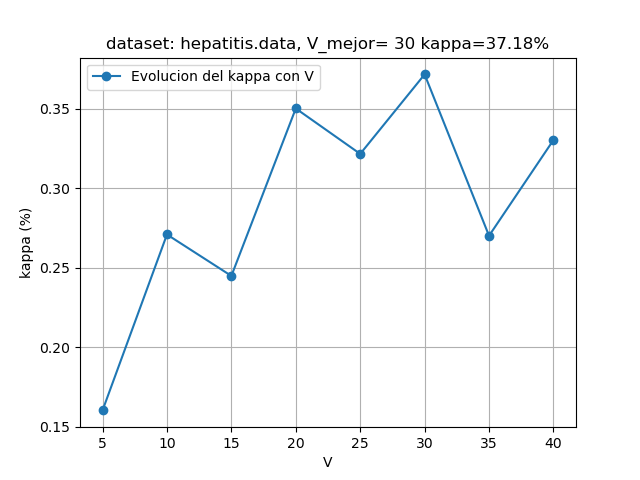
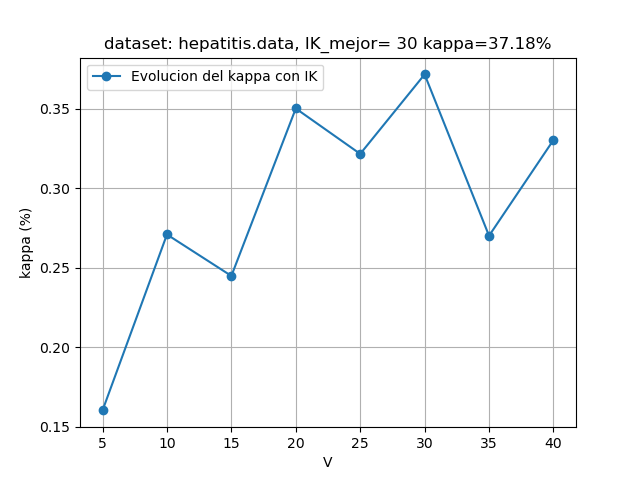
asd

Changed region(s): [[0.1562, 0.0625, 0.5938, 0.1875], [0.625, 0.0625, 0.875, 0.125]]

diff --git a/Entregar/4-svm/4-svm.py b/Entregar/4-svm/4-svm.py
@@ -9,6 +9,7 @@ from crea_folds import crea_folds
 import numpy as np
 from sklearn.metrics import *
 from sklearn.svm import *
+import pdb
 
 def pr4(dataset_name, dataset_train=None, dataset_test=None):
     """ Función que ejecuta los 5 ejercicios mencionados
@@ -31,6 +32,7 @@ def pr4(dataset_name, dataset_train=None, dataset_test=None):
     else:
         ej2(dataset_name)
         ej3(dataset_name)
+        ej4(dataset_name)
 
 def ej2(dataset_name):
     """
@@ -59,7 +61,7 @@ def ej2(dataset_name):
         prec = 100 * precision_score(y,z); rec = 100 * recall_score(y,z)
         f1 = 100 * f1_score(y,z)
         print(f"precision.: {prec:.2f}%\nrecall: {rec:.2f}%\nf1 = {f1:.2f}%\n")            
-    print("─────────────────────────────────────────")
+    print("─────────────────────────────────────────────────")
 
 def ej3(dataset_name):
     """
@@ -89,9 +91,159 @@ def ej3(dataset_name):
         prec = 100 * precision_score(y,z); rec = 100 * recall_score(y,z)
         f1 = 100 * f1_score(y,z)
         print(f"precision.: {prec:.2f}%\nrecall: {rec:.2f}%\nf1 = {f1:.2f}%\n")            
-    print("─────────────────────────────────────────")
+    print("─────────────────────────────────────────────────")
 
+def ej4(dataset_name):
+    """
+    Repetir con cross validation (k=4, k=10)
+    """
 
+    # PARTE 1: CROSS VALIDATION LINEAR KERNEL (K=4)
+    print("EJERCICIO 4_1 (SVM cross_validation, linear kernel, K=4):")
+    ej4_linear_kernel_cross_validation(dataset_name, K=4)
+
+    # PARTE 2: CROSS VALIDATION LINEAR KERNEL (K=10)
+    print("EJERCICIO 4_2 (SVM cross_validation, linear kernel, K=10):")
+    ej4_linear_kernel_cross_validation(dataset_name, K=10)
+
+    # PARTE 3: CROSS VALIDATION LINEAR KERNEL (K=10)
+    print("EJERCICIO 4_3 (SVM cross_validation, gaussian kernel, K=4):")
+    ej4_gaussian_kernel_cross_validation(dataset_name, K=4)
+
+    # PARTE 4: CROSS VALIDATION GAUSSIAN KERNEL (K=10)
+    print("EJERCICIO 4_4 (SVM cross_validation, gaussian kernel, K=10):")
+    ej4_gaussian_kernel_cross_validation(dataset_name, K=10)
+
+def ej4_linear_kernel_cross_validation(dataset_name, K):
+    datos = np.loadtxt('../data/' + dataset_name)
+    y=datos[:,0]-1; x=np.delete(datos,0,1)
+    C = len(np.unique(y))
+
+    [tx,ty,vx,vy,sx,sy] = crea_folds(x,y,K)
+
+    #preprocesamiento
+    for k in range(K):
+        med=np.mean(tx[k],0); dev=np.std(tx[k],0)
+        tx[k]=(tx[k]-med)/dev
+        vx[k]=(vx[k]-med)/dev
+        sx[k]=(sx[k]-med)/dev
+
+    # Sintonizacion lambda
+    print("Sintonizacion:")
+    vL=2.**np.arange(-5, 16, 2)
+    vkappa=np.zeros(K); kappa_mellor=-np.Inf; L_mellor=vL[0]
+    kappa_sintonizacion = []
+    print('%10s %10s'%('L','Kappa(%)'))
+
+    for L in vL:
+        for k in range(K):
+            modelo = SVC(C=L, kernel='linear', verbose=False).fit(tx[k],ty[k])
+            z = modelo.predict(vx[k])
+            vkappa[k]=cohen_kappa_score(vy[k],z)
+        kappa_med=np.mean(vkappa)
+        kappa_sintonizacion.append(kappa_med)
+        print('%10.2f %10.1f'%(L,100*kappa_med))
+        if kappa_med>kappa_mellor:
+            kappa_mellor=kappa_med; L_mellor=L
+
+    print('V_mejor=%i kappa=%.2f%%\n'%(L_mellor,100*kappa_mellor))
+
+    # Grafico de sintonizacion (escala logaritmica): 
+    plt.plot(vL, kappa_sintonizacion, marker='o', label='Evolucion del kappa con L')
+    plt.title(f'dataset: {dataset_name}, L_mejor= {L_mellor} kappa={100*kappa_mellor:.2f}%')
+    plt.legend(); plt.grid(True)
+    plt.xlabel('V'); plt.ylabel('kappa (%)')
+    plt.xscale("log")
+    plt.savefig("sintonizacionL_" + dataset_name + "_K="+str(K)+".png")
+    plt.show()
+
+    # TEST
+    print("Test:")
+    C = len(np.unique(y))
+    mc = np.zeros([C,C])
+    v_accuracy = np.zeros(K)
+
+    for k in range(K):
+        tx[k]=np.vstack((tx[k],vx[k]))
+        ty[k]=np.concatenate((ty[k],vy[k]))
+        modelo = SVC(C=L_mellor, kernel='linear', verbose=False).fit(tx[k],ty[k])
+        z=modelo.predict(sx[k]); y=sy[k]
+        vkappa[k]=100*cohen_kappa_score(y,z)
+        v_accuracy[k] = 100*accuracy_score(y,z)
+        mc+=confusion_matrix(y,z)
+
+    kappa = np.mean(vkappa)
+    accuracy = np.mean(v_accuracy)
+    mc/=K
+    print(f"acc.: {accuracy:.2f}%\nkappa: {kappa:.2f}%\ncf = \n{mc}")
+    print("─────────────────────────────────────────────────")
+
+def ej4_gaussian_kernel_cross_validation(dataset_name, K):
+    datos = np.loadtxt('../data/' + dataset_name)
+    y=datos[:,0]-1; x=np.delete(datos,0,1)
+    C = len(np.unique(y))
+
+    [tx,ty,vx,vy,sx,sy] = crea_folds(x,y,K)
+
+    #preprocesamiento
+    for k in range(K):
+        med=np.mean(tx[k],0); dev=np.std(tx[k],0)
+        tx[k]=(tx[k]-med)/dev
+        vx[k]=(vx[k]-med)/dev
+        sx[k]=(sx[k]-med)/dev
+
+    # Sintonizacion lambda y sigma
+    print("Sintonizacion:")
+    vL=2.**np.arange(-5, 16, 2)
+    vG=2.**np.arange(-7, 8, 2)
+
+    kappa_sintonizacion=np.zeros((len(vL), len(vG))); 
+    vkappa=np.zeros(K);kappa_mellor=-np.Inf; L_mellor=vL[0]; G_mellor=vG[0]
+    print('%10s %15s %10s %10s'%('Lambda','Gamma', 'Kappa (%)', 'Mejor'))
+
+    for i,L in enumerate(vL):
+        for j,G in enumerate(vG):
+            for k in range(K):
+                modelo=SVC(C=L, kernel ='rbf', gamma=G, verbose=False).fit(tx[k],ty[k])
+                z = modelo.predict(vx[k])
+                vkappa[k]=cohen_kappa_score(vy[k],z) * 100
+            kappa_med=np.mean(vkappa)
+            kappa_sintonizacion[i,j] = kappa_med
+            if kappa_med>kappa_mellor:
+                kappa_mellor=kappa_med; L_mellor=L; G_mellor = G
+            print('%.2f %15g %10.1f %10.1f'%(L,G, kappa_med, kappa_mellor))
+           
+
+    print('L_mejor=%g, G_mejor=%g, kappa=%.2f%%\n'%(L_mellor, G_mellor, kappa_mellor))
+
+    # Grafico de sintonizacion:
+    u=np.ravel(kappa_sintonizacion); plt.plot(u); plt.grid(True)
+    plt.title(f'dataset: {dataset_name}, L_mejor={L_mellor}, G_mejor={G_mellor} kappa={kappa_mellor:.2f}%')
+    plt.axis([1,len(u), -5, 100])
+    plt.xlabel('Configuracion'); plt.ylabel('kappa (%)')
+    plt.savefig("sintonizacion_SVC_gaussian_" + dataset_name + "_K="+str(K)+".png")
+    plt.show()
+
+    # TEST
+    print("Test:")
+    C = len(np.unique(y))
+    mc = np.zeros([C,C])
+    v_accuracy = np.zeros(K)
+
+    for k in range(K):
+        tx[k]=np.vstack((tx[k],vx[k]))
+        ty[k]=np.concatenate((ty[k],vy[k]))
+        modelo=SVC(C=L_mellor, kernel ='rbf', gamma=G_mellor, verbose=False).fit(tx[k],ty[k])
+        z=modelo.predict(sx[k]); y=sy[k]
+        vkappa[k]=100*cohen_kappa_score(y,z)
+        v_accuracy[k] = 100*accuracy_score(y,z)
+        mc+=confusion_matrix(y,z)
+
+    kappa = np.mean(vkappa)
+    accuracy = np.mean(v_accuracy)
+    mc/=K
+    print(f"acc.: {accuracy:.2f}%\nkappa: {kappa:.2f}%\ncf = \n{mc}")
+    print("─────────────────────────────────────────────────")
 
 
 

diff --git a/Entregar/3-ann/3-ann.py b/Entregar/3-ann/3-ann.py
@@ -148,9 +148,9 @@ def ej3(dataset_name):
             neurons_mellor = i
     print(f"Mejor nº neuronas ocultas: {neurons_mellor}, kappa={100*kappa_mellor:.2f}%\n")
 
-     # Grafico de sintonizacion:
-    plt.plot(IK, kappa_sintonizacion,marker='o', label='Evolucion del kappa con V')
-    plt.title(f'dataset: {dataset_name}, V_mejor= {neurons_mellor} kappa={100*kappa_mellor:.2f}%')
+    # Grafico de sintonizacion:
+    plt.plot(IK, kappa_sintonizacion,marker='o', label='Evolucion del kappa con IK')
+    plt.title(f'dataset: {dataset_name}, IK_mejor= {neurons_mellor} kappa={100*kappa_mellor:.2f}%')
     plt.xticks(IK); plt.legend(); plt.grid(True)
     plt.xlabel('V'); plt.ylabel('kappa (%)')
     plt.savefig("sintonizacionIK_" + dataset_name + ".png")
